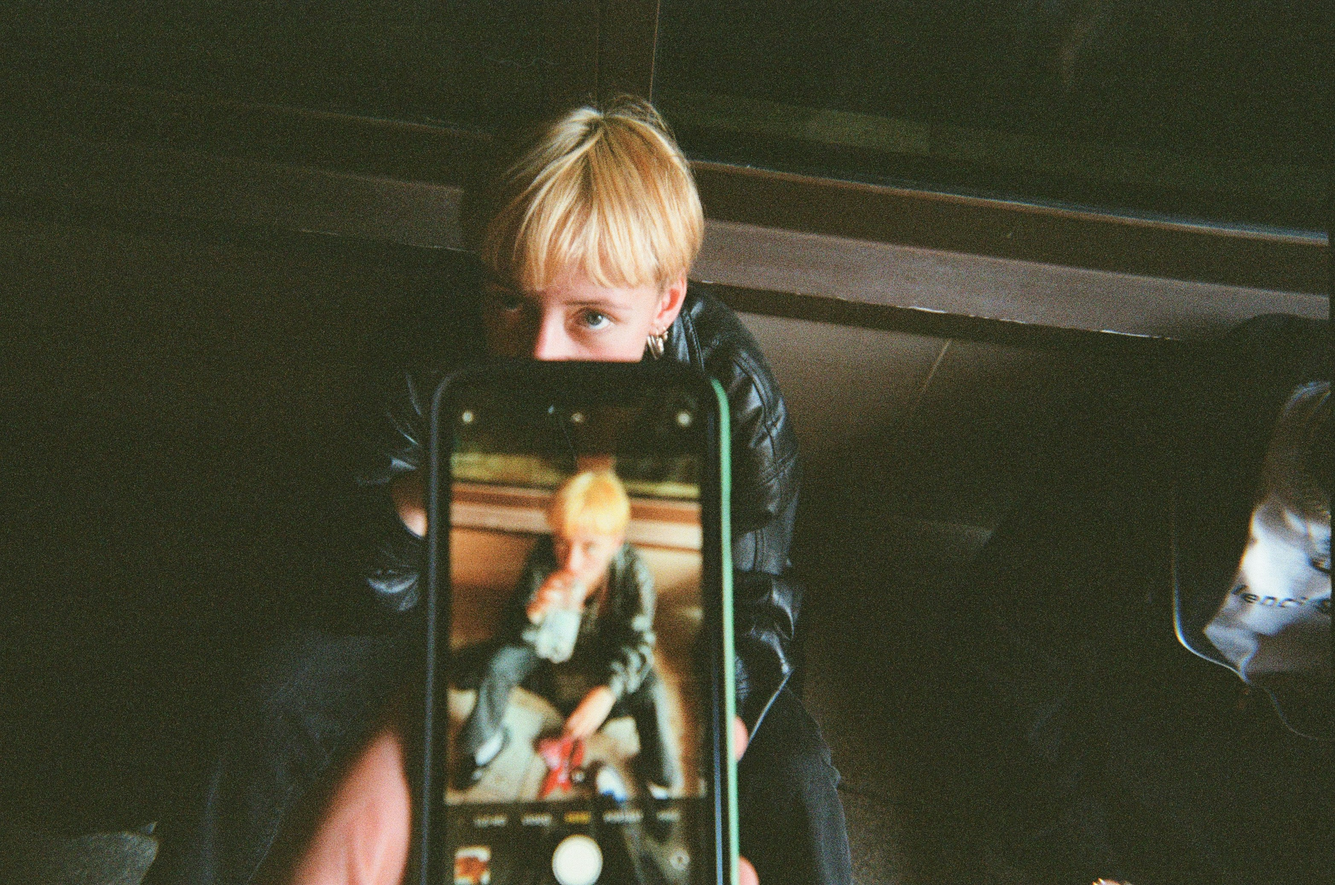
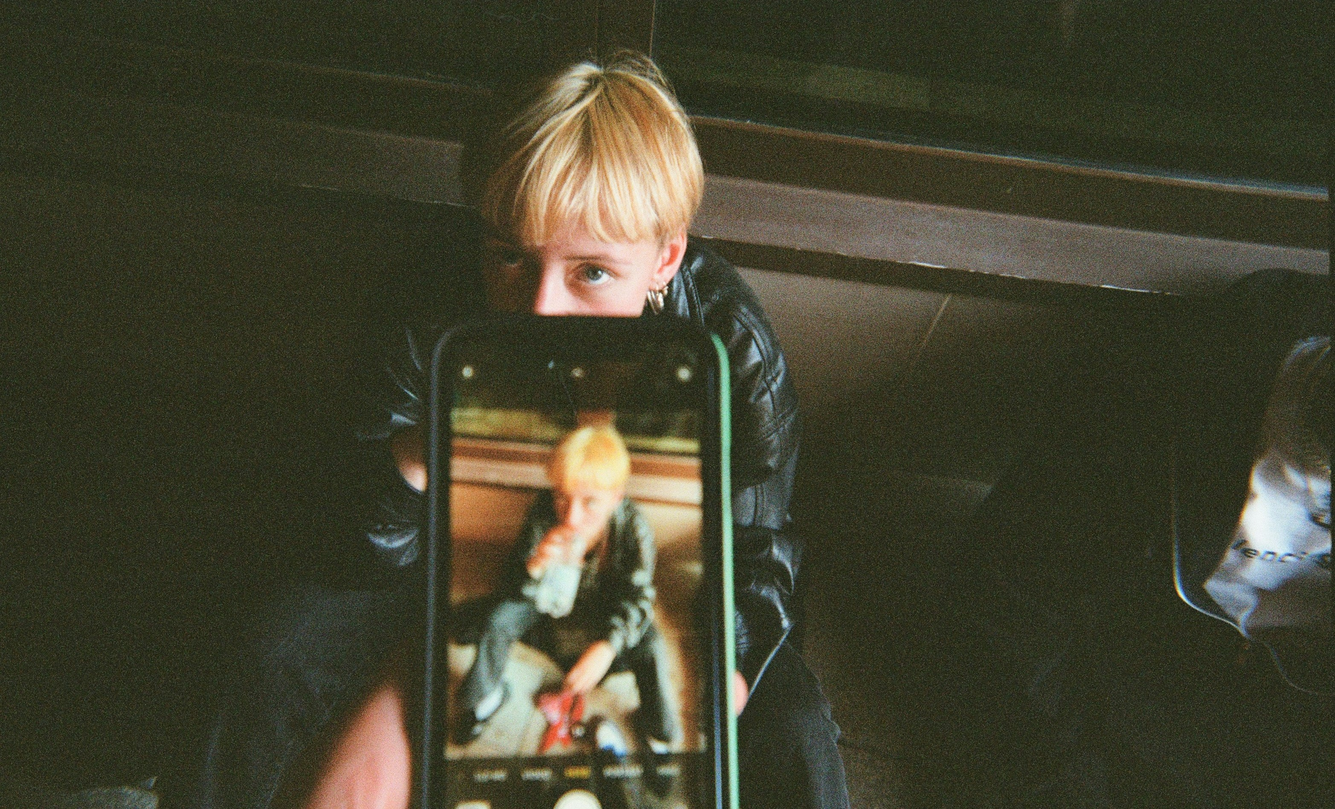
更改大圖

diff --git a/正.html b/正.html
@@ -17,7 +17,7 @@
         /* ------------------- 排版元素 ------------------*/
 
         body {
-            background-color: #14202c;
+            background-color: #000000;
             /* background-color: rgb(255, 250, 251); */
             /* background-color: #F5F5F5; */
         }
@@ -36,7 +36,7 @@
         }
 
         #s1photo {
-            max-width: 100%;
+            max-width: 100vw;
         }
 
         #logobox {
@@ -79,7 +79,7 @@
             /* 換行 */
         }
 
-        #hbox{
+        #hbox {
             position: relative;
             width: 150vmin;
             /* 圓形的寬度，根據視口大小調整 */
@@ -98,7 +98,7 @@
             /* 垂直方向居中 */
             /* flex-wrap: wrap; */
         }
-        
+
         #s2 h1 {
             color: #c29e76;
             font-size: 80px;
@@ -114,9 +114,20 @@
 
         #str9 {
             position: absolute;
-            bottom: 15px;
+            bottom: 60px;
         }
 
+        #str11 {
+            position: absolute;
+            right: 10px;
+            bottom: 10px;
+        }
+
+        #str51 {
+            position: absolute;
+            bottom: 20px;
+            right: 85px;
+        }
         /* -----------2. 照片一覽(S3)+(S5)--------------------------- */
 
         #manbox {
@@ -127,7 +138,6 @@
         }
 
         /* -----------3. 照片輪播 (S4+照片)--------------------------- */
-
         #s4 {
             display: flex;
             justify-content: center;
@@ -146,7 +156,7 @@
 
         /* ------------4. 介紹網頁 (S6+img+介紹)----------------------- */
         #fs6 {
-            background-color: #14202c;
+            background-color: #000000;
             /* 黑色背景 */
             display: flex;
             justify-content: center;
@@ -162,7 +172,7 @@
             /* 圓形的高度 */
             background-color: rgb(255, 250, 251);
             /* 白色圓形背景 */
-            border-radius: 20%;
+            border-radius: 18%;
             /* 圓形化 */
             display: flex;
             flex-direction: column;
@@ -231,7 +241,7 @@
     <!-------------- header (S1+封面+logo)---------------------->
     <header>
         <section id="s1">
-            <div><img id="s1photo" src="./img/石頭海爆改2.jpg"></div>
+            <div><img id="s1photo" src="./img/girl5.jpg"></div>
             <div id="logobox">
                 <a href="#">
                     <img src="./img/Vesluneir.png">
@@ -261,17 +271,35 @@
             <div>
                 <img src="./img/Star 8.png">
             </div>
+            <div>
+                <img src="./img/Star 10.png">
+            </div>
+            <div>
+                <img src="./img/Star 5.png">
+            </div>
+            <div id="strbox">
+                <img id="str51" src="./img/Star 5.png">
+            </div>
             <div id="hbox">
                 <h1>
-                     “ Every Moment&nbsp&nbsp&nbsp&nbsp&nbsp&nbsp&nbsp&nbsp
+                    “ Every Moment&nbsp&nbsp&nbsp&nbsp&nbsp&nbsp&nbsp&nbsp
                 </h1>
                 <h1>
                     &nbsp&nbsp&nbsp&nbsp&nbsp&nbsp&nbsp&nbsp&nbsp&nbsp&nbsp&nbsp&nbsp&nbsp
                     Carries an Endless Story. ”
                 </h1>
             </div>
+            <div>
+                <img src="./img/Star 5.png">
+            </div>
+            <div id="strbox">
+                <img id="str51" src="./img/Star 5.png">
+            </div>
             <div id="strbox">
                 <img id="str9" src="./img/Star 9.png">
+            </div>
+            <div id="strbox">
+                <img id="str11" src="/img/Star 11.png">
             </div>
         </section>
 
@@ -290,19 +318,19 @@
             <div id="manbox" class="row">
                 <div id="man" class="col-4">
                     <figure class="figure">
-                        <img src="./img/海邊一人.jpg" class="img-fluid figure-img">
+                        <img src="./img/book&camera.jpg" class="img-fluid figure-img">
                         <figcaption class="figure-caption">河</figcaption>
                     </figure>
                 </div>
                 <div id="man" class="col-4">
                     <figure class="figure">
-                        <img src="./img/海灘兩人.jpg" class="img-fluid figure-img">
+                        <img src="./img/金髮美女.jpg" class="img-fluid figure-img">
                         <figcaption class="figure-caption">街</figcaption>
                     </figure>
                 </div>
                 <div id="man" class="col-4">
                     <figure class="figure ">
-                        <img src="./img/眼鏡趴著女.jpg" class="img-fluid figure-img">
+                        <img src="./img/photer2.jpg" class="img-fluid figure-img">
                         <figcaption class="figure-caption">塔</figcaption>
                     </figure>
                 </div>
@@ -314,7 +342,7 @@
         <div id="box"></div>
 
 
-        <!------------- 3. 介紹網頁(S6+img+介紹) --------------------->        
+        <!------------- 3. 介紹網頁(S6+img+介紹) --------------------->
         <section id="fs6">
             <section id="s6">
                 <!-- 第一組內容 -->
